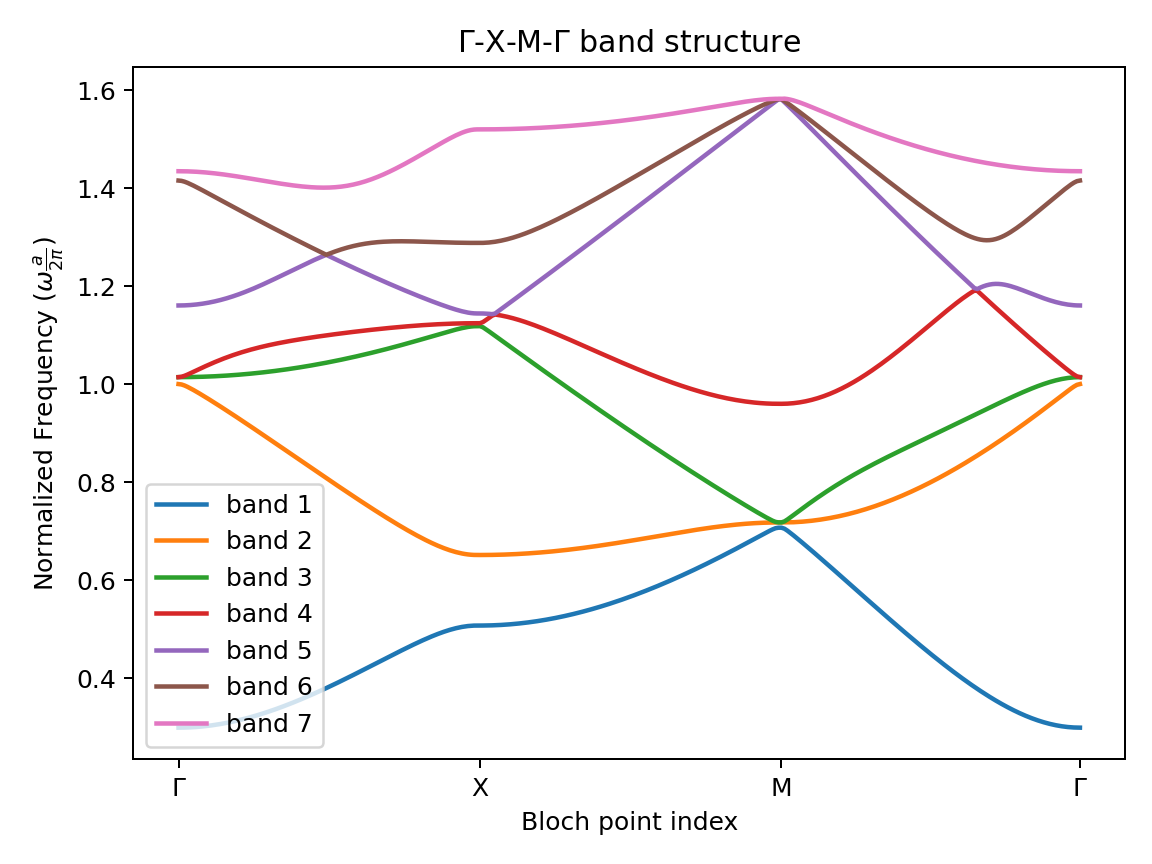
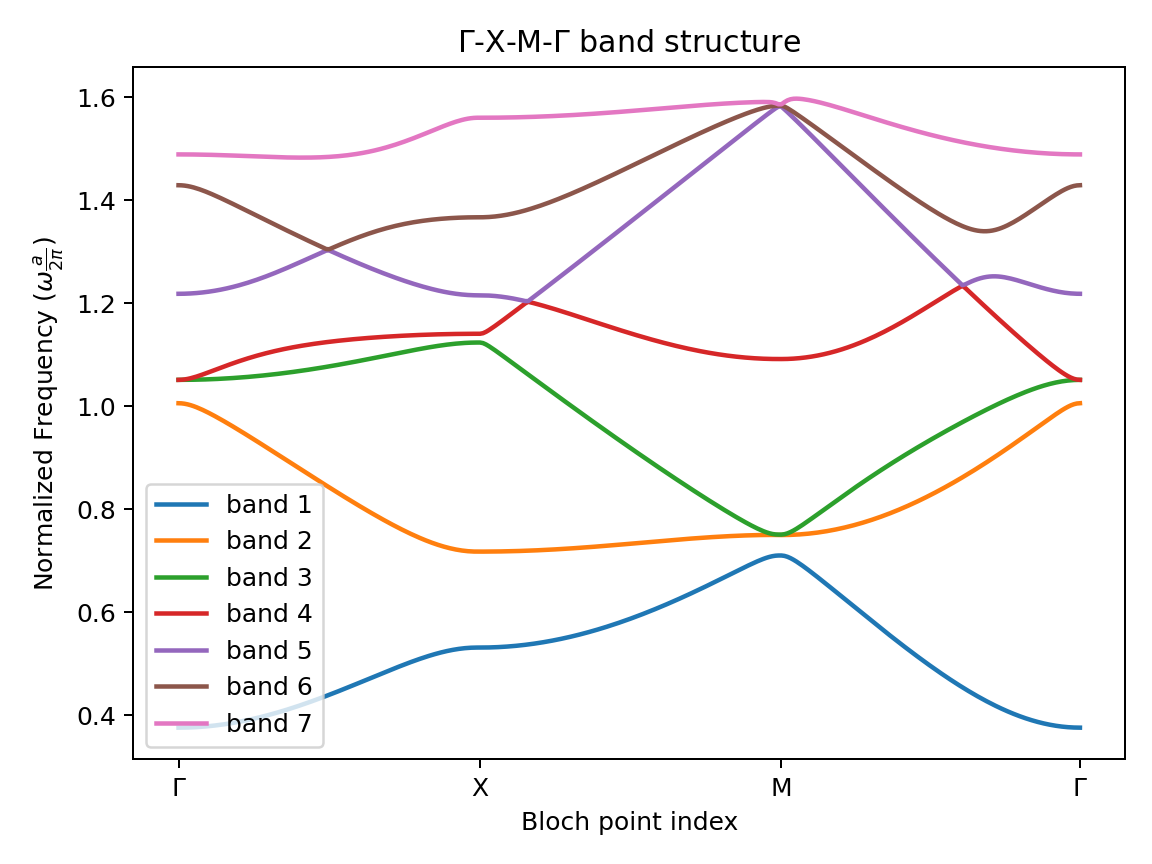
Graphs with medium sized epsilon

diff --git a/Translated Code/matlab_translation/main.py b/Translated Code/matlab_translation/main.py
@@ -750,12 +750,12 @@ def main():
     # Shared lattice/FEM setup: lattice constant a=1.0 and mesh spacing h=0.02.
     # Smaller h refines the mesh (and can shift results) at higher runtime cost.
     lat_c = 1.0
-    mesh_size = 0.01
+    mesh_size = 0.02
     
     # Compute touching characteristic values at M for several PEC inclusion radii and compare to analyic estimate.
     compare_to_analytic_estimate(lat_c=lat_c, radii=[0.25,0.1,0.01], mesh_size = .01)
     
-    eps = 0.05  # radius of PEC inclusion
+    eps = 0.1  # radius of PEC inclusion
     matrices = _assemble_cell(lat_c=lat_c, mesh_size=mesh_size, PEC_radius=eps)
     
     # Surface plots!    
